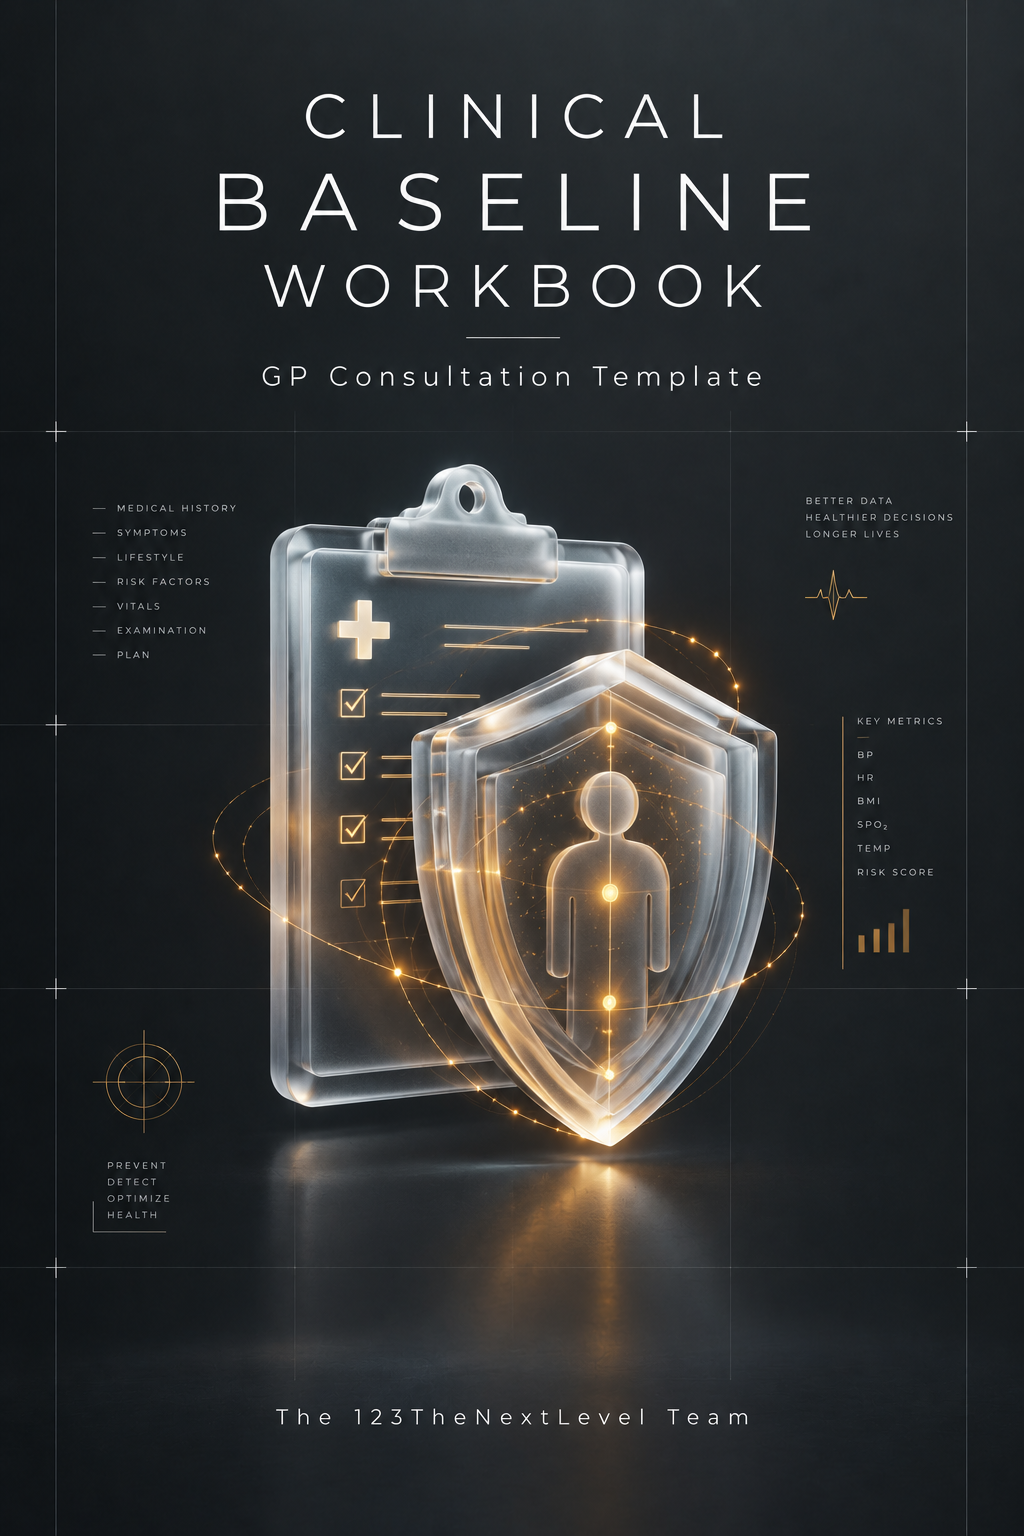
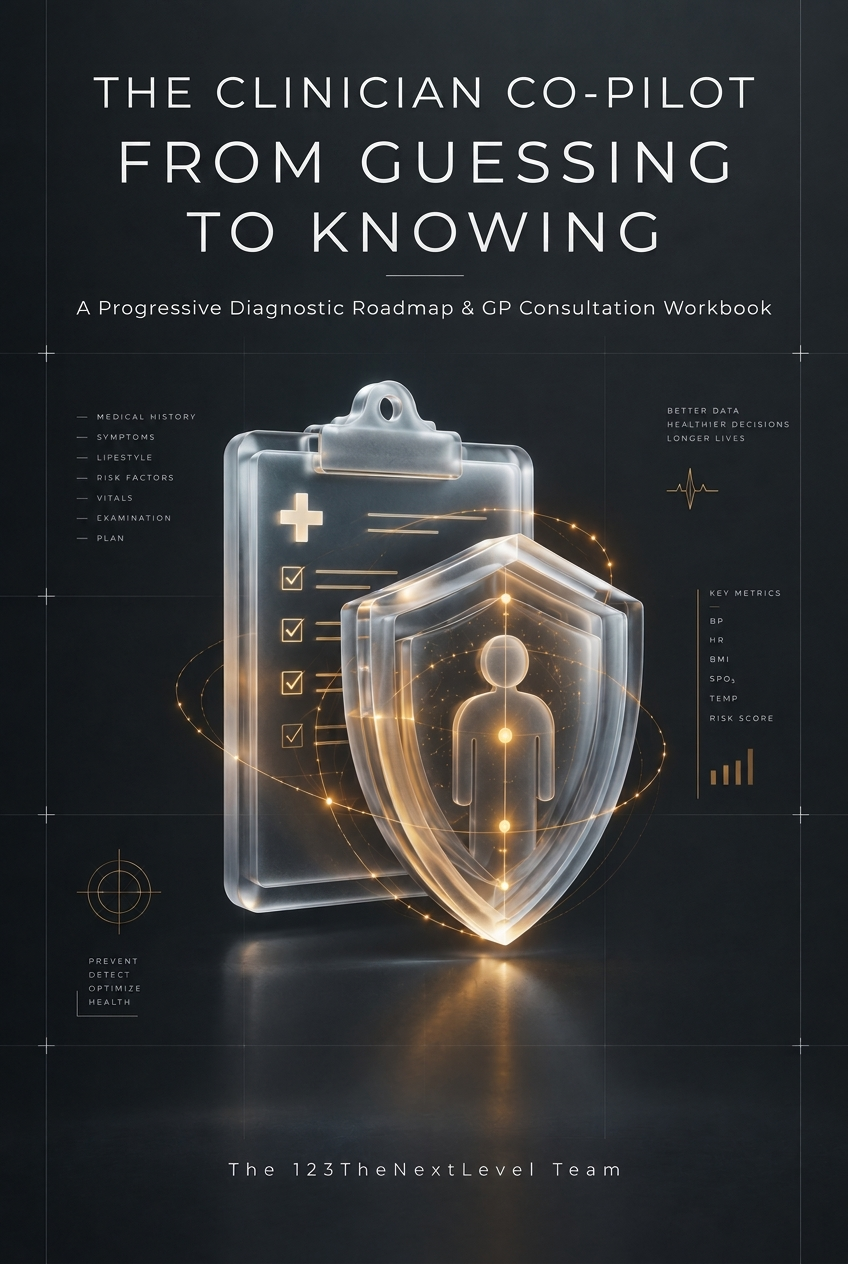
fix(library): update book cover and card title to THE CLINICIAN CO-PILOT: FROM GUESSING TO KNOWING

diff --git a/src/pages/Success.tsx b/src/pages/Success.tsx
@@ -105,20 +105,20 @@ export default function SuccessPage() {
                 </a>
               </div>
 
-              {/* Free Resource 2: GP Consultation Workbook */}
+              {/* Free Resource 2: The Clinician Co-Pilot */}
               <div className="p-5 rounded-2xl bg-slate-950 border border-slate-850 space-y-4 hover:border-amber-500/30 transition">
                 <div className="flex items-start gap-4">
                   <img 
                     src="/assets/images/shop/gp_consultation_cover.png" 
-                    alt="Clinical Baseline Workbook"
+                    alt="THE CLINICIAN CO-PILOT: FROM GUESSING TO KNOWING"
                     className="w-16 h-24 object-contain rounded-lg border border-slate-800 bg-slate-900 shrink-0 shadow-lg"
                   />
                   <div className="space-y-1 text-left">
                     <h3 className="text-base font-bold text-white leading-tight">
-                      Clinical Baseline &amp; GP Consultation Template
+                      THE CLINICIAN CO-PILOT: FROM GUESSING TO KNOWING
                     </h3>
                     <p className="text-xs text-slate-400 leading-relaxed">
-                      3-page clinician co-pilot template to evaluate blood draws (Lola Vital Check 56) and collaborate with your doctor.
+                      4-page clinician co-pilot template to evaluate blood draws (Lola Vital Check 56) and collaborate with your doctor.
                     </p>
                   </div>
                 </div>
@@ -129,7 +129,7 @@ export default function SuccessPage() {
                   className="w-full py-2.5 px-4 rounded-xl text-xs font-bold uppercase tracking-wider bg-slate-800 hover:bg-slate-700 text-amber-300 border border-amber-500/30 flex items-center justify-center gap-2 transition cursor-pointer"
                 >
                   <Download size={14} />
-                  <span>Download GP Workbook (PDF)</span>
+                  <span>Download Clinician Co-Pilot (PDF)</span>
                 </a>
               </div>
 

diff --git a/src/pages/Library.tsx b/src/pages/Library.tsx
@@ -149,8 +149,8 @@ export default function LibraryPage() {
       tag: "Clinician Co-Pilot Suite (100% Free • $0)",
       tagColor: "bg-amber-500/10 text-amber-400 border-amber-500/20",
       priceBadge: "$0.00 FREE",
-      title: "The Clinical Baseline Workbook & GP Consultation Template",
-      shortTitle: "GP Consultation Workbook",
+      title: "THE CLINICIAN CO-PILOT: FROM GUESSING TO KNOWING",
+      shortTitle: "The Clinician Co-Pilot: From Guessing to Knowing",
       description: "Cross the bridge from guessing to knowing with this 4-page clinician-ready consultation workbook. Includes our Lola Vital Check 56 biomarker breakdown, laboratory draw checklist, and a printable template to co-evaluate your telemetry with your doctor.",
       fileUrl: "/assets/docs/clinical-baseline-consultation-workbook.pdf",
       fileName: "clinical-baseline-consultation-workbook.pdf",

diff --git a/src/pages/DiagnosticGuide.tsx b/src/pages/DiagnosticGuide.tsx
@@ -420,7 +420,7 @@ export const DiagnosticGuide: React.FC = () => {
               <span>CLINICAL CO-PILOT TOOLKIT</span>
             </div>
             <h3 className="text-2xl sm:text-3xl font-display font-black uppercase text-white">
-              The Clinician Co-Pilot &amp; GP Consultation Workbook
+              THE CLINICIAN CO-PILOT: FROM GUESSING TO KNOWING
             </h3>
             <p className="text-xs sm:text-sm text-slate-300 leading-relaxed font-light">
               Bridge the gap between consumer health telemetry and clinical evaluation. This 4-page printable workbook organizes your blood draw metrics, resting telemetry, and specific proactive questions for your GP or primary care physician.
